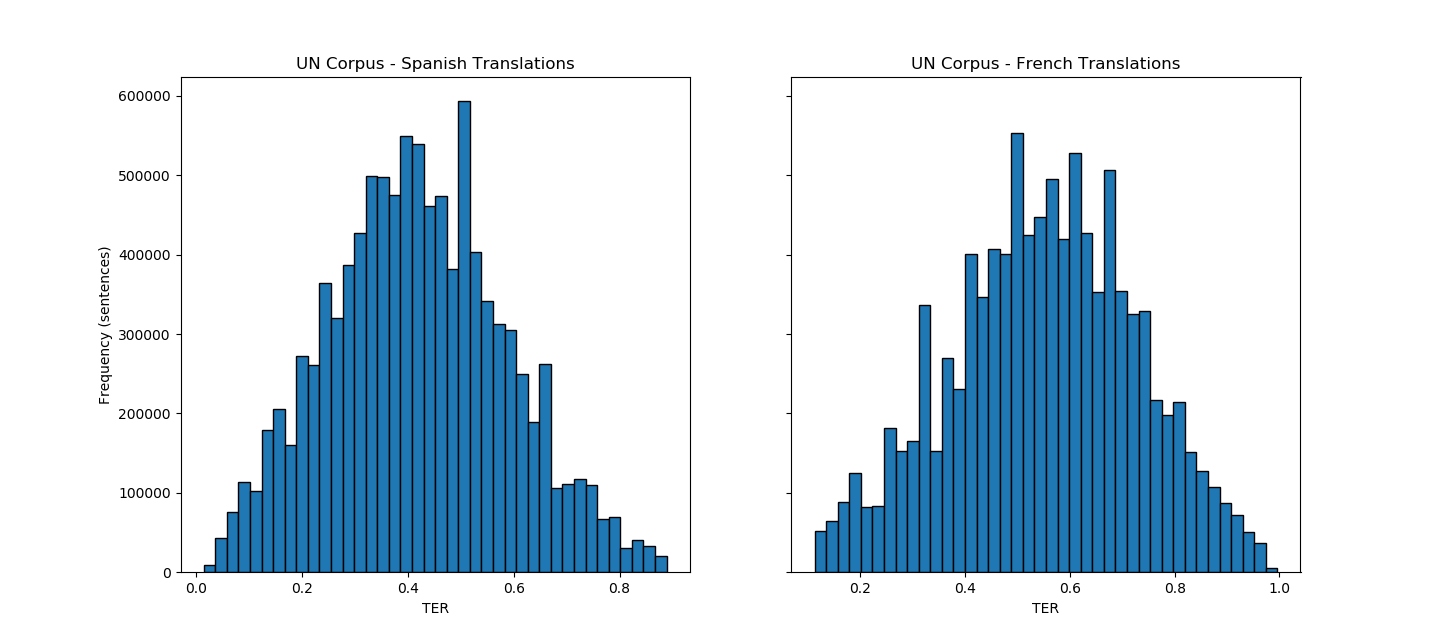
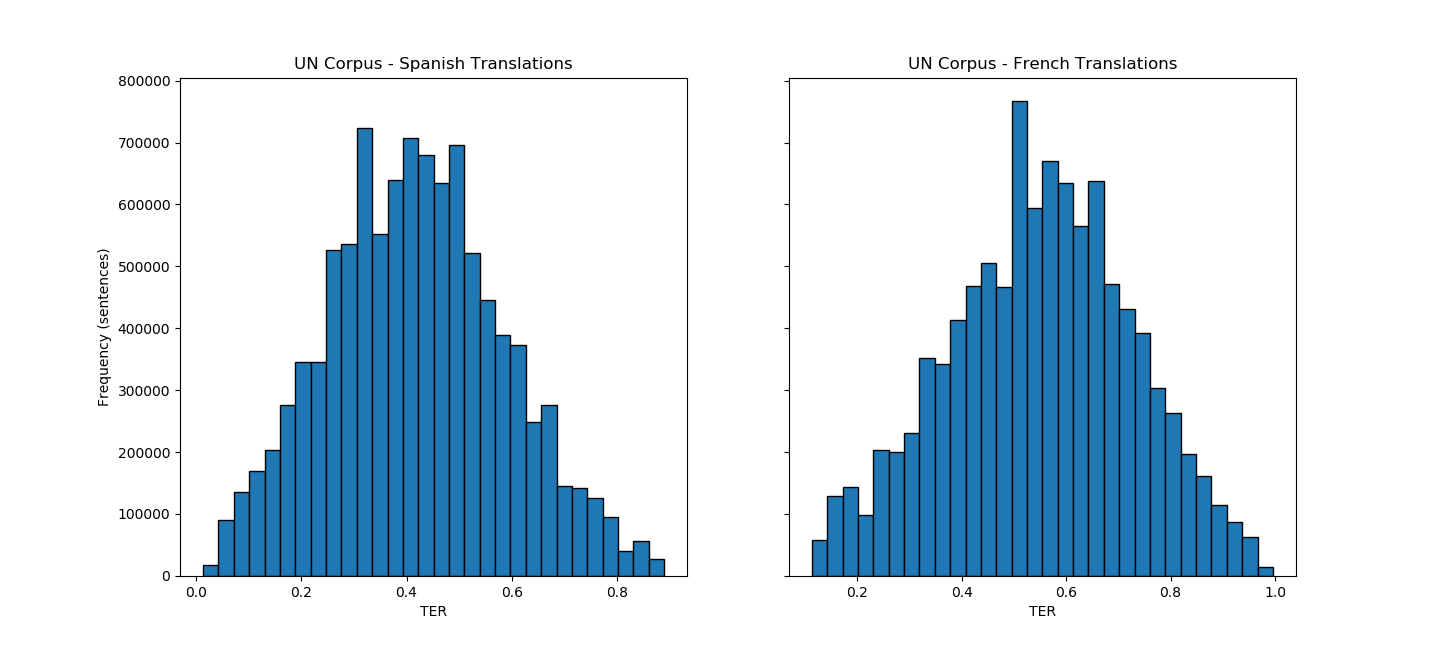
increasing binwidth (lower number of bins)

diff --git a/scripts/histograms.py b/scripts/histograms.py
@@ -16,12 +16,12 @@ def histogram():
 
     fig, axs = plt.subplots(1, 2, sharey=True)
 
-    axs[0].hist(es_df.iloc[:,0], bins=40, edgecolor='black')
+    axs[0].hist(es_df.iloc[:,0], bins=30, edgecolor='black')
     axs[0].set_xlabel("TER")
     axs[0].set_ylabel("Frequency (sentences)")
     axs[0].set_title("UN Corpus - Spanish Translations")
 
-    axs[1].hist(fr_df.iloc[:,0], bins=40, edgecolor='black')
+    axs[1].hist(fr_df.iloc[:,0], bins=30, edgecolor='black')
     axs[1].set_xlabel("TER")
     #axs[1].ylabel("Frequency (sentences)")
     axs[1].set_title("UN Corpus - French Translations")
